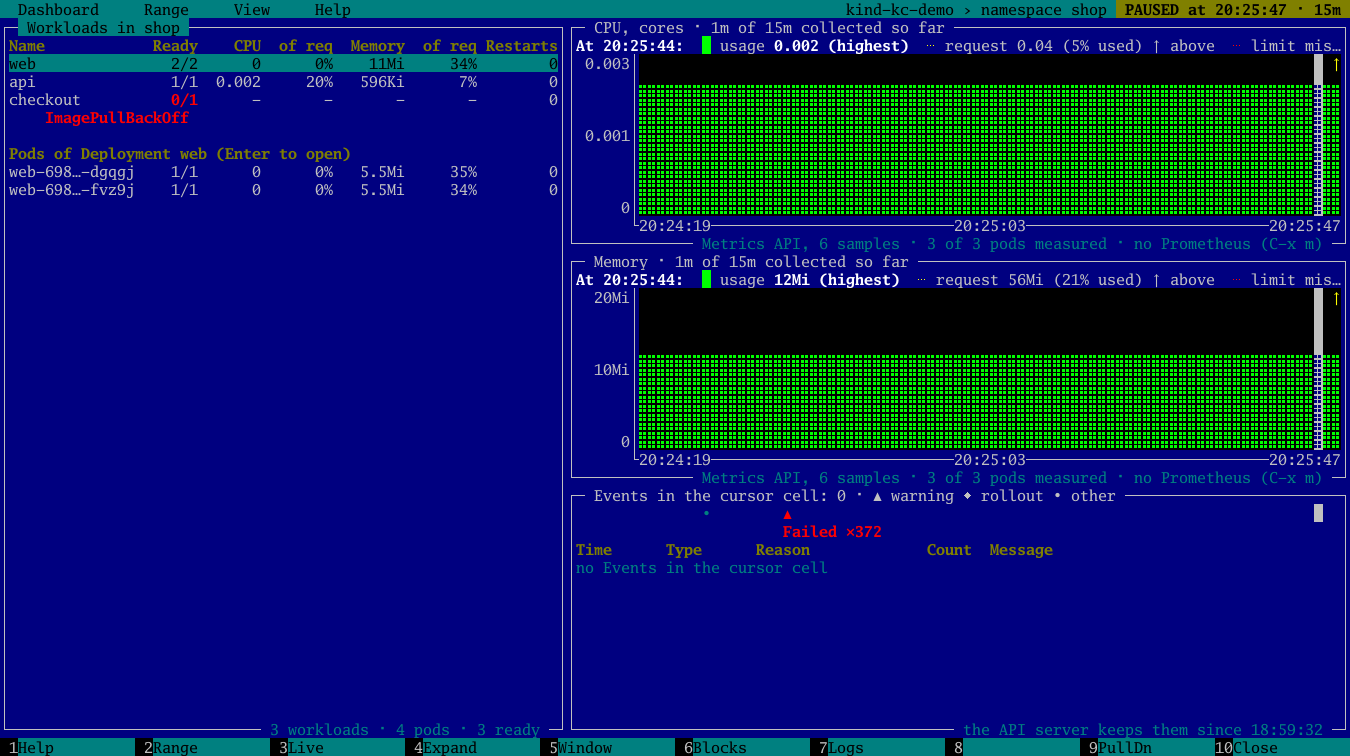
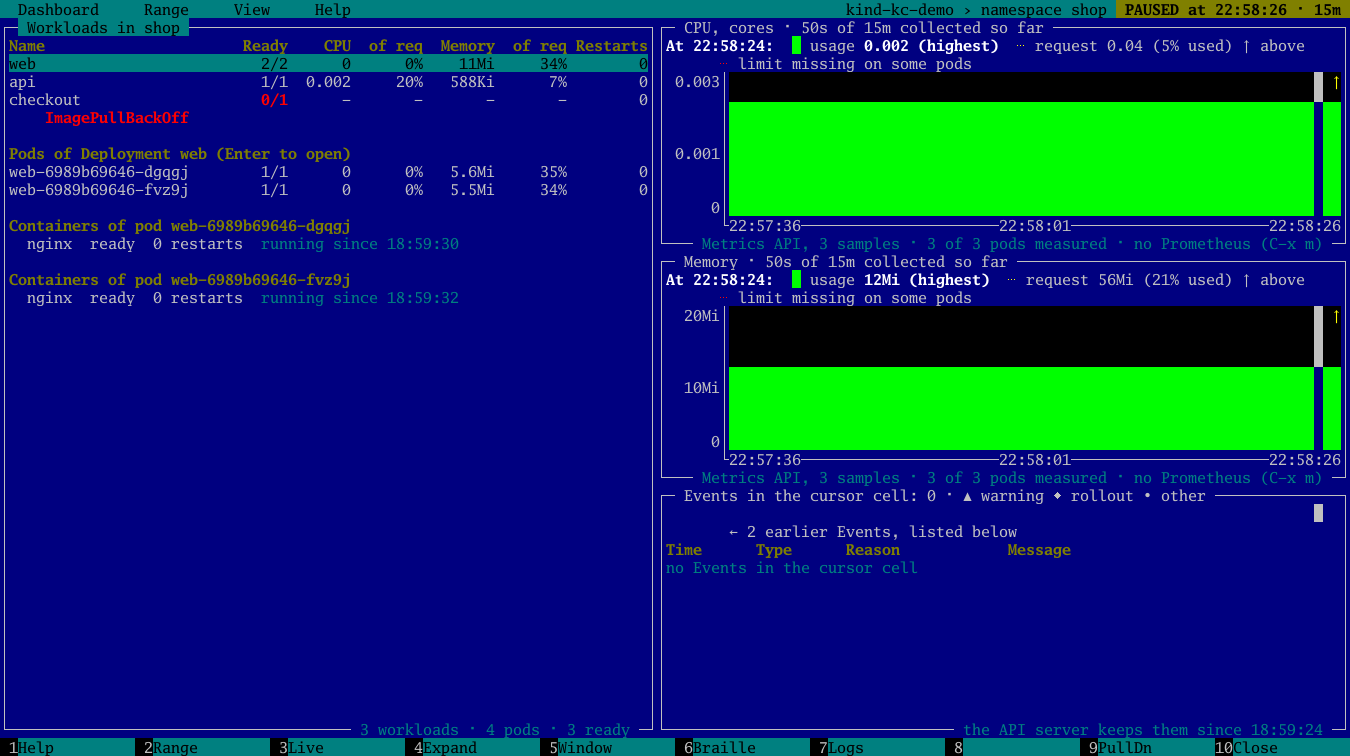
docs: describe the dashboard's list, history and drawing
ADR 0321 explains why a read records its rows for the drilldowns, the
cursor over the images, blocks as the text default and the Events
label. New screenshots of the result.

diff --git a/docs/adr/0321-dashboard-native-look.md b/docs/adr/0321-dashboard-native-look.md
@@ -37,47 +37,47 @@ The screen of a namespace on a kind cluster, a minute after opening:
 
 ```
   Dashboard     Range     View     Help                                                         kind-kc-demo › namespace shop  LIVE · last 15 minutes
-┌─ Workloads in shop ─────────────────────────────────────────┐┌─ CPU, cores · 1m of 15m collected so far ───────────────────────────────────────────┐
-│Name            Ready    CPU  of req  Memory  of req Restarts││Now:  █ usage 0.002  ┄ request 0.04 (5% used) ↑ above  ┄ limit missing on some pods  │
-│web               2/2      0      0%    11Mi     34%        0││ 0.003│                                                                             ↑│
-│api               1/1  0.002     20%   596Ki      7%        0││      │⣀⣀⣀⣀⣀⣀⣀⣀⣀⣀⣀⣀⣀⣀⣀⣀⣀⣀⣀⣀⣀⣀⣀⣀⣀⣀⣀⣀⣀⣀⣀⣀⣀⣀⣀⣀⣀⣀⣀⣀⣀⣀⣀⣀⣀⣀⣀⣀⣀⣀⣀⣀⣀⣀⣀⣀⣀⣀⣀⣀⣀⣀⣀⣀⣀⣀⣀⣀⣀⣀⣀⣀⣀⣀⣀⣀⣀⣀│
-│checkout          0/1      -       -       -       -        0││      │⣿⣿⣿⣿⣿⣿⣿⣿⣿⣿⣿⣿⣿⣿⣿⣿⣿⣿⣿⣿⣿⣿⣿⣿⣿⣿⣿⣿⣿⣿⣿⣿⣿⣿⣿⣿⣿⣿⣿⣿⣿⣿⣿⣿⣿⣿⣿⣿⣿⣿⣿⣿⣿⣿⣿⣿⣿⣿⣿⣿⣿⣿⣿⣿⣿⣿⣿⣿⣿⣿⣿⣿⣿⣿⣿⣿⣿⣿│
-│  ⚠ ImagePullBackOff                                         ││      │⣿⣿⣿⣿⣿⣿⣿⣿⣿⣿⣿⣿⣿⣿⣿⣿⣿⣿⣿⣿⣿⣿⣿⣿⣿⣿⣿⣿⣿⣿⣿⣿⣿⣿⣿⣿⣿⣿⣿⣿⣿⣿⣿⣿⣿⣿⣿⣿⣿⣿⣿⣿⣿⣿⣿⣿⣿⣿⣿⣿⣿⣿⣿⣿⣿⣿⣿⣿⣿⣿⣿⣿⣿⣿⣿⣿⣿⣿│
-│                                                             ││ 0.001│⣿⣿⣿⣿⣿⣿⣿⣿⣿⣿⣿⣿⣿⣿⣿⣿⣿⣿⣿⣿⣿⣿⣿⣿⣿⣿⣿⣿⣿⣿⣿⣿⣿⣿⣿⣿⣿⣿⣿⣿⣿⣿⣿⣿⣿⣿⣿⣿⣿⣿⣿⣿⣿⣿⣿⣿⣿⣿⣿⣿⣿⣿⣿⣿⣿⣿⣿⣿⣿⣿⣿⣿⣿⣿⣿⣿⣿⣿│
-│Pods of Deployment web (Enter to open)                       ││      │⣿⣿⣿⣿⣿⣿⣿⣿⣿⣿⣿⣿⣿⣿⣿⣿⣿⣿⣿⣿⣿⣿⣿⣿⣿⣿⣿⣿⣿⣿⣿⣿⣿⣿⣿⣿⣿⣿⣿⣿⣿⣿⣿⣿⣿⣿⣿⣿⣿⣿⣿⣿⣿⣿⣿⣿⣿⣿⣿⣿⣿⣿⣿⣿⣿⣿⣿⣿⣿⣿⣿⣿⣿⣿⣿⣿⣿⣿│
-│web-698…-dgqgj    1/1      0      0%   5.5Mi     35%        0││      │⣿⣿⣿⣿⣿⣿⣿⣿⣿⣿⣿⣿⣿⣿⣿⣿⣿⣿⣿⣿⣿⣿⣿⣿⣿⣿⣿⣿⣿⣿⣿⣿⣿⣿⣿⣿⣿⣿⣿⣿⣿⣿⣿⣿⣿⣿⣿⣿⣿⣿⣿⣿⣿⣿⣿⣿⣿⣿⣿⣿⣿⣿⣿⣿⣿⣿⣿⣿⣿⣿⣿⣿⣿⣿⣿⣿⣿⣿│
-│web-698…-fvz9j    1/1      0      0%   5.5Mi     34%        0││      │⣿⣿⣿⣿⣿⣿⣿⣿⣿⣿⣿⣿⣿⣿⣿⣿⣿⣿⣿⣿⣿⣿⣿⣿⣿⣿⣿⣿⣿⣿⣿⣿⣿⣿⣿⣿⣿⣿⣿⣿⣿⣿⣿⣿⣿⣿⣿⣿⣿⣿⣿⣿⣿⣿⣿⣿⣿⣿⣿⣿⣿⣿⣿⣿⣿⣿⣿⣿⣿⣿⣿⣿⣿⣿⣿⣿⣿⣿│
-│                                                             ││     0│⣿⣿⣿⣿⣿⣿⣿⣿⣿⣿⣿⣿⣿⣿⣿⣿⣿⣿⣿⣿⣿⣿⣿⣿⣿⣿⣿⣿⣿⣿⣿⣿⣿⣿⣿⣿⣿⣿⣿⣿⣿⣿⣿⣿⣿⣿⣿⣿⣿⣿⣿⣿⣿⣿⣿⣿⣿⣿⣿⣿⣿⣿⣿⣿⣿⣿⣿⣿⣿⣿⣿⣿⣿⣿⣿⣿⣿⣿│
-│                                                             ││      └20:24:19───────────────────────────20:25:02───────────────────────────20:25:46│
-│                                                             │└───────────── Metrics API, 6 samples · 3 of 3 pods measured · no Prometheus (C-x m) ─┘
-│                                                             │┌─ Memory · 1m of 15m collected so far ───────────────────────────────────────────────┐
-│                                                             ││Now:  █ usage 12Mi  ┄ request 56Mi (21% used) ↑ above  ┄ limit missing on some pods  │
-│                                                             ││  20Mi│                                                                             ↑│
-│                                                             ││      │                                                                              │
-│                                                             ││      │                                                                              │
-│                                                             ││      │⣀⣀⣀⣀⣀⣀⣀⣀⣀⣀⣀⣀⣀⣀⣀⣀⣀⣀⣀⣀⣀⣀⣀⣀⣀⣀⣀⣀⣀⣀⣀⣀⣀⣀⣀⣀⣀⣀⣀⣀⣀⣀⣀⣀⣀⣀⣀⣀⣀⣀⣀⣀⣀⣀⣀⣀⣀⣀⣀⣀⣀⣀⣀⣀⣀⣀⣀⣀⣀⣀⣀⣀⣀⣀⣀⣀⣀⣀│
-│                                                             ││  10Mi│⣿⣿⣿⣿⣿⣿⣿⣿⣿⣿⣿⣿⣿⣿⣿⣿⣿⣿⣿⣿⣿⣿⣿⣿⣿⣿⣿⣿⣿⣿⣿⣿⣿⣿⣿⣿⣿⣿⣿⣿⣿⣿⣿⣿⣿⣿⣿⣿⣿⣿⣿⣿⣿⣿⣿⣿⣿⣿⣿⣿⣿⣿⣿⣿⣿⣿⣿⣿⣿⣿⣿⣿⣿⣿⣿⣿⣿⣿│
-│                                                             ││      │⣿⣿⣿⣿⣿⣿⣿⣿⣿⣿⣿⣿⣿⣿⣿⣿⣿⣿⣿⣿⣿⣿⣿⣿⣿⣿⣿⣿⣿⣿⣿⣿⣿⣿⣿⣿⣿⣿⣿⣿⣿⣿⣿⣿⣿⣿⣿⣿⣿⣿⣿⣿⣿⣿⣿⣿⣿⣿⣿⣿⣿⣿⣿⣿⣿⣿⣿⣿⣿⣿⣿⣿⣿⣿⣿⣿⣿⣿│
-│                                                             ││      │⣿⣿⣿⣿⣿⣿⣿⣿⣿⣿⣿⣿⣿⣿⣿⣿⣿⣿⣿⣿⣿⣿⣿⣿⣿⣿⣿⣿⣿⣿⣿⣿⣿⣿⣿⣿⣿⣿⣿⣿⣿⣿⣿⣿⣿⣿⣿⣿⣿⣿⣿⣿⣿⣿⣿⣿⣿⣿⣿⣿⣿⣿⣿⣿⣿⣿⣿⣿⣿⣿⣿⣿⣿⣿⣿⣿⣿⣿│
-│                                                             ││      │⣿⣿⣿⣿⣿⣿⣿⣿⣿⣿⣿⣿⣿⣿⣿⣿⣿⣿⣿⣿⣿⣿⣿⣿⣿⣿⣿⣿⣿⣿⣿⣿⣿⣿⣿⣿⣿⣿⣿⣿⣿⣿⣿⣿⣿⣿⣿⣿⣿⣿⣿⣿⣿⣿⣿⣿⣿⣿⣿⣿⣿⣿⣿⣿⣿⣿⣿⣿⣿⣿⣿⣿⣿⣿⣿⣿⣿⣿│
-│                                                             ││     0│⣿⣿⣿⣿⣿⣿⣿⣿⣿⣿⣿⣿⣿⣿⣿⣿⣿⣿⣿⣿⣿⣿⣿⣿⣿⣿⣿⣿⣿⣿⣿⣿⣿⣿⣿⣿⣿⣿⣿⣿⣿⣿⣿⣿⣿⣿⣿⣿⣿⣿⣿⣿⣿⣿⣿⣿⣿⣿⣿⣿⣿⣿⣿⣿⣿⣿⣿⣿⣿⣿⣿⣿⣿⣿⣿⣿⣿⣿│
-│                                                             ││      └20:24:19───────────────────────────20:25:02───────────────────────────20:25:46│
-│                                                             │└───────────── Metrics API, 6 samples · 3 of 3 pods measured · no Prometheus (C-x m) ─┘
-│                                                             │┌─ Events in the last 15 minutes: 2 · ▲ warning ◆ rollout • other ────────────────────┐
-│                                                             ││              •        ▲                                                             │
-│                                                             ││                       Failed ×372                                                   │
-│                                                             ││Time      Type      Reason             Count  Message                                │
-│                                                             ││20:24:38  ▲ Warning Failed               372  Error: ImagePullBackOff                │
-│                                                             ││20:24:27  • Normal  BackOff              371  Back-off pulling image "nginx:1.27-che…│
-│                                                             ││                                                                                     │
-│                                                             ││                                                                                     │
-│                                                             ││                                                                                     │
-│                                                             ││                                                                                     │
-│                                                             ││                                                                                     │
-│                                                             ││                                                                                     │
-│                                                             ││                                                                                     │
-└──────────────────────────── 3 workloads · 4 pods · 3 ready ─┘└────────────────────────────────────────── the API server keeps them since 18:59:32 ─┘
- 1Help          2Range         3Pause         4Expand        5Window        6Blocks        7Logs          8              9PullDn       10Close
+┌─ Workloads in shop ───────────────────────────────────────────────────┐┌─ CPU, cores · 50s of 15m collected so far ────────────────────────────────┐
+│Name                      Ready    CPU  of req  Memory  of req Restarts││Now:  █ usage 0.002  ┄ request 0.04 (5% used) ↑ above                      │
+│web                         2/2      0      0%    11Mi     34%        0││      ┄ limit missing on some pods                                         │
+│api                         1/1  0.002     20%   588Ki      7%        0││ 0.003│                                                                   ↑│
+│checkout                    0/1      -       -       -       -        0││      │▃▃▃▃▃▃▃▃▃▃▃▃▃▃▃▃▃▃▃▃▃▃▃▃▃▃▃▃▃▃▃▃▃▃▃▃▃▃▃▃▃▃▃▃▃▃▃▃▃▃▃▃▃▃▃▃▃▃▃▃▃▃▃▃▃▃▃▃│
+│  ⚠ ImagePullBackOff                                                   ││      │████████████████████████████████████████████████████████████████████│
+│                                                                       ││      │████████████████████████████████████████████████████████████████████│
+│Pods of Deployment web (Enter to open)                                 ││ 0.001│████████████████████████████████████████████████████████████████████│
+│web-6989b69646-dgqgj        1/1      0      0%   5.6Mi     35%        0││      │████████████████████████████████████████████████████████████████████│
+│web-6989b69646-fvz9j        1/1      0      0%   5.5Mi     34%        0││      │████████████████████████████████████████████████████████████████████│
+│                                                                       ││     0│████████████████████████████████████████████████████████████████████│
+│Containers of pod web-6989b69646-dgqgj                                 ││      └22:57:36──────────────────────22:58:01──────────────────────22:58:26│
+│  nginx  ready  0 restarts  running since 18:59:30                     │└─── Metrics API, 3 samples · 3 of 3 pods measured · no Prometheus (C-x m) ─┘
+│                                                                       │┌─ Memory · 50s of 15m collected so far ────────────────────────────────────┐
+│Containers of pod web-6989b69646-fvz9j                                 ││Now:  █ usage 12Mi  ┄ request 56Mi (21% used) ↑ above                      │
+│  nginx  ready  0 restarts  running since 18:59:32                     ││      ┄ limit missing on some pods                                         │
+│                                                                       ││  20Mi│                                                                   ↑│
+│                                                                       ││      │                                                                    │
+│                                                                       ││      │                                                                    │
+│                                                                       ││      │▅▅▅▅▅▅▅▅▅▅▅▅▅▅▅▅▅▅▅▅▅▅▅▅▅▅▅▅▅▅▅▅▅▅▅▅▅▅▅▅▅▅▅▅▅▅▅▅▅▅▅▅▅▅▅▅▅▅▅▅▅▅▅▅▅▅▅▅│
+│                                                                       ││  10Mi│████████████████████████████████████████████████████████████████████│
+│                                                                       ││      │████████████████████████████████████████████████████████████████████│
+│                                                                       ││      │████████████████████████████████████████████████████████████████████│
+│                                                                       ││     0│████████████████████████████████████████████████████████████████████│
+│                                                                       ││      └22:57:36──────────────────────22:58:01──────────────────────22:58:26│
+│                                                                       │└─── Metrics API, 3 samples · 3 of 3 pods measured · no Prometheus (C-x m) ─┘
+│                                                                       │┌─ Events in the last 15 minutes: 2 · ▲ warning ◆ rollout • other ──────────┐
+│                                                                       ││                                                                           │
+│                                                                       ││       ← 2 earlier Events, listed below                                    │
+│                                                                       ││Time      Type      Reason             Count  Message                      │
+│                                                                       ││22:54:40  ▲ Warning Failed              1039  Error: ImagePullBackOff      │
+│                                                                       ││22:54:27  • Normal  BackOff             1038  Back-off pulling image "ngin…│
+│                                                                       ││                                                                           │
+│                                                                       ││                                                                           │
+│                                                                       ││                                                                           │
+│                                                                       ││                                                                           │
+│                                                                       ││                                                                           │
+│                                                                       ││                                                                           │
+│                                                                       ││                                                                           │
+└────────────────────────────────────── 3 workloads · 4 pods · 3 ready ─┘└──────────────────────────────── the API server keeps them since 18:59:24 ─┘
+ 1Help          2Range         3Pause         4Expand        5Window        6Braille       7Logs          8              9PullDn       10Close
 ```
 
 1. **kc chrome.** The top row is a menu bar in kc's colors (`F9`):
@@ -87,15 +87,20 @@ The screen of a namespace on a kind cluster, a minute after opening:
    or the investigation window. The bottom row is the F-key bar, drawn
    by the code that draws the panels' bar, with the actions available
    now: `F1` Help, `F2` Range, `F3` Pause or Live, `F4` Expand or
-   Restore, `F5` Window, `F6` Images, Braille or Blocks (the next
+   Restore, `F5` Window, `F6` Images, Blocks or Braille (the next
    drawing), `F7` Logs, `F9` PullDn,
    `F10` Close. Every widget sits in a frame on kc's blue with its title
    in the top border and a note in the bottom border. The focused
    widget's title is drawn like a panel's cursor row (black on cyan).
    Only the plot area of a chart is black. Where the terminal shows
    images (ADR 0320), the image fills that plot area; the frame, the
-   legend, the value labels, the time axis, the "no data" band and the
-   arrows of a line above the scale stay text.
+   legend, the value labels, the time axis, the "no data" band, the
+   arrows of a line above the scale and the cursor column stay text.
+   The cursor is not in the picture: `Chart.TextCells` leaves its
+   column to the text chart, and the dashboard keeps a `RasterKey` of
+   each picture (the points, the scale, the range and the cell size),
+   so a cursor move rasterizes and sends nothing. Only new data or a
+   new size sends an image.
 2. **A target list for navigation.** The left column (at 120 columns
    and more; below that, under the charts) lists what the target is made
    of: the workloads of a namespace or of all namespaces (pods without a
@@ -106,14 +111,29 @@ The screen of a namespace on a kind cluster, a minute after opening:
    opened for replaces it with its parent. `Esc` keeps its order from
    ADR 0252. When the workloads leave room in the list, the pods of the
    selected one are listed under them (`models.UsageAmounts.PodRows`),
-   so a short namespace does not leave the column empty.
+   then the containers of the selected pod or of the selected
+   workload's pods (`models.UsageRow.Containers`): ready or not, the
+   restarts, the state now and why each last stopped. A short namespace
+   does not leave the column empty.
+   Names get their natural width first. The list asks for the width of
+   its longest name and every column, up to half the screen; when that
+   is not enough it drops Restarts (also written under a row that is not
+   well), then CPU, before it shortens a name. A name too long even
+   then is shortened in the middle, keeping the columns that leave it
+   20 cells.
 3. **Usage against request and limit, per row.** Each row shows CPU and
    memory now and the share of the request in use (`of req`). Over the
    request is yellow; at 90% of the limit or more, red. Above each
    chart a legend says the same for the whole target in words:
    `Now: █ usage 0.002  ┄ request 0.04 (5% used) ↑ above  ┄ limit
    missing on some pods`, with `over the request` and `near the limit` in the same
-   colors.
+   colors. A legend wider than its chart wraps to a second or third
+   line, which the plot gives up, instead of ending in `…`. With the
+   cursor on, the usage is the cell's peak, `usage 0.4 (highest)`; a
+   cell where nothing ran says `usage none` and one without a sample
+   `usage no sample`, never `0 (highest)`. The source note in the
+   bottom border shortens `3 of 3 pods measured` to `3/3 pods` and then
+   drops its last notes when the chart is narrow.
 4. **Health next to usage.** Each row shows the ready pods and the
    restarts, and a second line names the problem when there is one: a
    waiting reason such as `ImagePullBackOff` or `CrashLoopBackOff`,
@@ -131,19 +151,37 @@ The screen of a namespace on a kind cluster, a minute after opening:
    (at least 30 seconds), and the title says `1m of 15m collected so
    far`. With Prometheus or an investigation window the range is as
    chosen.
+   The session history is kept per target, and each read records the
+   rows of its list under their own keys too: a namespace read stores a
+   sample of each of its workloads and pods (the first 64 rows, most
+   memory first), a workload read one of each of its pods. A workload
+   or pod opened from the list therefore starts with the minutes its
+   parent already collected. The alternative, sampling only pods and
+   summing them for any target, would rebuild a workload from pods that
+   came and went and would need the pod list of every past sample; the
+   rows are already summed by the engine, so storing them costs one
+   sample per row per poll and no new reads. The store keeps up to 160
+   targets, the one sampled longest ago dropped first.
 7. **No data is labeled.** A plot column without a sample is shaded
    dark gray, and a run of them wide enough says `no data`. The time
    axis is a solid rule with its first, middle and last time on it.
+   In text, the usage area is solid. A full braille cell is a grid of
+   dots with gaps in most terminal fonts, which reads as a texture, so
+   text charts start in blocks: full blocks under the edge, eighths at
+   the edge. Braille stays one `F6` away for its two samples per cell
+   at the edge, and its cells under the edge are full blocks too.
 8. **Events with labels.** The frame title counts the Events and
    explains the marks (`▲ warning ◆ rollout • other`). The lane is on
    the charts' time axis, and the line under it names the marks that
    fit, warnings first (`Failed ×285`). Before the oldest Event the API
    server keeps, it says `no Events kept before 18:59`; when a fitted
-   chart starts after some Events of the range, `← 2 Events before the
-   chart starts`. The lane has no label of its own: the frame title
-   names it. The list
+   chart starts after some Events of the range, `← 2 earlier Events,
+   listed below`: the chart may cover seconds of a range of minutes, so
+   the label says where those Events are, not when the chart starts.
+   The lane has no label of its own: the frame title names it. The list
    has column headers: Time, Type, Reason, Object (from 100 columns),
-   Count, Message. With the charts side by side, the lane follows the
+   Count, Message. Count shows only when an Event of the list happened
+   more than once, and then says 1 for the others. With the charts side by side, the lane follows the
    left chart's axis.
 9. **The plot stays separate from the frame.** `chart.Chart` stays the
    model of a chart, and `Chart.Render` draws the value labels, the plot

diff --git a/internal/help/topics/dashboard.md b/internal/help/topics/dashboard.md
@@ -20,14 +20,20 @@ all of them). `Esc` or `F10` returns to the panels as you left them.
   red. A row with a problem has a second line, for example
   `⚠ CrashLoopBackOff · 7 restarts`, `1 container OOMKilled`, `Pending` or
   `not ready`. The first row, `.. up to …`, goes back to the parent.
-  When the workloads leave room, the pods of the selected one are
-  listed under them. The bottom border counts the pods and the ready
-  ones.
+  Names keep their full width: a narrow list drops the Restarts
+  column, then CPU, before it shortens a name. When the workloads leave
+  room, the pods of the selected one are listed under them, and then
+  the containers of the selected pod or workload: ready or not, the
+  restarts, what each does now (`running since 10:02:11`, `waiting:
+  CrashLoopBackOff`) and why it last stopped (`last stopped 09:58:40:
+  OOMKilled, exit 137`). The bottom border counts the pods and the
+  ready ones.
 - **CPU, cores** and **Memory**: the usage as a filled area, with the
   request and the limit as dashed lines, and the allocatable for a node
   or all namespaces. The line above each chart says in words what they
   are now: `Now: █ usage 0.4  ┄ request 1 (40% used)  ┄ limit 2`.
-  `over the request` is yellow, `near the limit` red.
+  `over the request` is yellow, `near the limit` red. A narrow chart
+  writes this line on two lines rather than cut it.
 - **Events**: the Kubernetes Events of the target in the range (see
   below).
 
@@ -43,13 +49,21 @@ The focused frame has its title highlighted. `Tab` moves the focus.
   steps up where it changed: with Prometheus it comes from
   kube-state-metrics, else from what this session sampled. The limit is
   not drawn where a container had no limit: the sum is then no ceiling,
-  and the cursor says `limit missing on some pods`. Today's values are
+  and the line says `limit missing on some pods` (`on some containers`
+  for a pod). Today's values are
   never drawn over the past.
 - `no data` on a gray band marks the time where nothing was measured.
   A chart never draws a zero for missing data.
 - While the dashboard has collected less than the range, the chart
   starts at the first sample and the title says so: `2m of 15m
-  collected so far`.
+  collected so far`. A workload or pod opened from the list starts with
+  the samples its namespace or workload already collected.
+- With the cursor on, the line above the chart is about the cursor
+  cell: `usage 0.4 (highest)` is the peak of the samples in the cell,
+  `usage none` means nothing ran, and `usage no sample` that nothing
+  was measured then.
+- In text, the area under the usage is solid. Its top edge is drawn in
+  eighths of a block, or in braille (two samples per cell) after `b`.
 - `no request or limit history: …` means Prometheus has no
   kube-state-metrics container series for the range (or the read
   failed, with the reason). The usage still shows; the lines do not.
@@ -70,12 +84,13 @@ repeated Event marks its first and last time.
 The API server keeps Events about an hour by default; the bottom border
 says since when. Before that time the lane says `no Events kept before
 09:10`: kc does not know what happened then, which is not the same as
-nothing. `← 3 Events before the chart starts` means the range has
+nothing. `← 3 earlier Events, listed below` means the range has
 Events before the first sample of a chart that is still filling; the
 list shows them.
 
 The list has the time, type, reason, object, count and message, newest
-first. With the cursor on a chart it holds the Events of the cursor
+first. The Count column shows only when an Event of the list happened
+more than once. With the cursor on a chart it holds the Events of the cursor
 cell.
 
 ## Where the lines come from
@@ -129,7 +144,7 @@ snapshot of the cluster at another time.
 - `o`: Show the selected row or the object of the selected Event, else the target, in the other panel, and leave the dashboard. An Event about a kind kc cannot open shows the Event. For a rollout step kc says where its revisions are: the Deployment's `/rollout`, else the object's `/timeline` if kc recorded it.
 - `l`, `F7`: Show the logs around the selected Event, or around the cursor: the investigation window becomes five minutes either side, the object goes to the other panel, and this panel turns to Logs mode.
 - `w`, `F5`: Make the shown range the investigation window.
-- `b`, `F6`: Switch the drawing: images where the terminal shows them (see below), then braille, then blocks (for fonts without braille), then images again. The View menu picks one by name.
+- `b`, `F6`: Switch the drawing: images where the terminal shows them (see below), then blocks, then braille (two samples per cell at the edge of the area), then images again. The View menu picks one by name.
 - `r`: Read Prometheus again now.
 - `F1`: This page.
 - `F9`: The menus: Dashboard, Range, View and Help.
@@ -149,9 +164,10 @@ pause and the drilldown. The session history is kept until kc exits.
 
 In iTerm2 3.7 or later, kitty and Ghostty the plots are drawn as images
 (the Kitty graphics protocol): the usage as a filled area, the requests,
-limits and allocatable as dashed lines, the cursor cell lighter. The
-frames, the legends, the value labels and the time axis stay text, and
-so do the "no data" band, the arrows of a line above the scale, menus,
+limits and allocatable as dashed lines. The frames, the legends, the
+value labels and the time axis stay text, and so do the cursor column
+(moving it sends no new image), the "no data" band, the arrows of a line
+above the scale, menus,
 `F1` and dialogs drawn over the charts. The images show the
 same samples as the text charts, only smoother. While you resize the
 window the plots are text; the images come back a moment after the size
@@ -164,7 +180,7 @@ stops changing.
   of 3.7 or later, `TERM=xterm-kitty` or `KITTY_WINDOW_ID`,
   `TERM=xterm-ghostty` or `TERM_PROGRAM=ghostty`. kc does not query the
   terminal for this, so nothing can end up in your input.
-- `text`: always braille or blocks.
+- `text`: always blocks or braille.
 - `kitty`: always images, for a terminal kc does not recognize.
 
 Under tmux (3.3 or later) images need `set -g allow-passthrough on`, and
